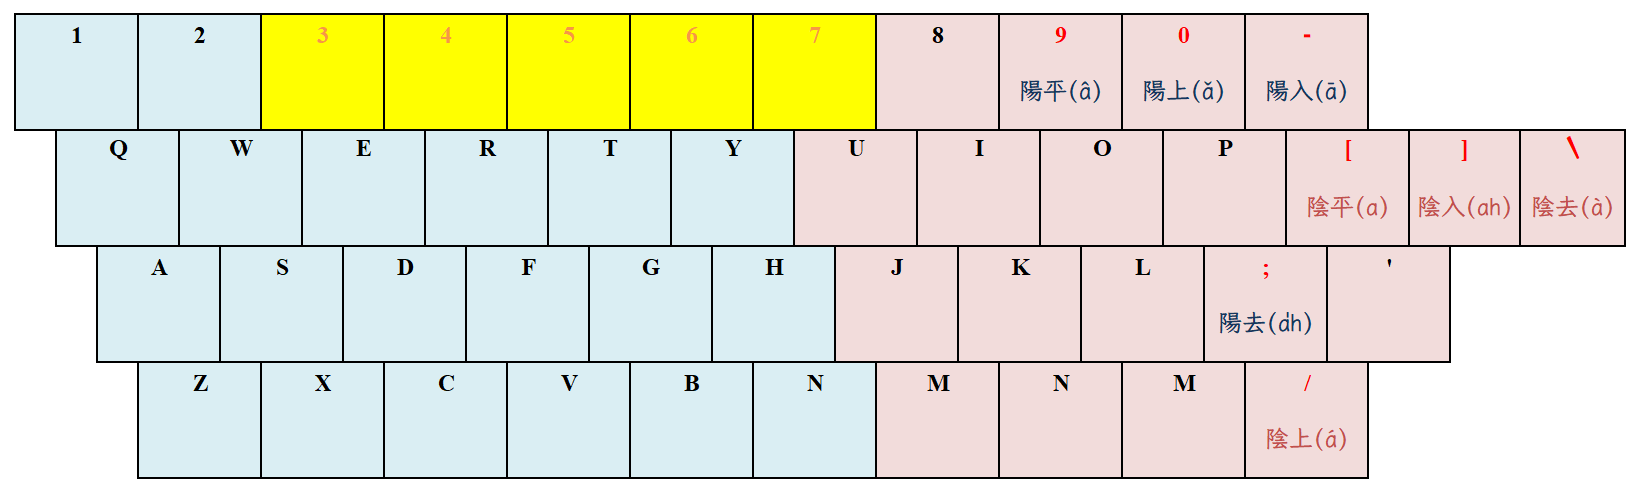
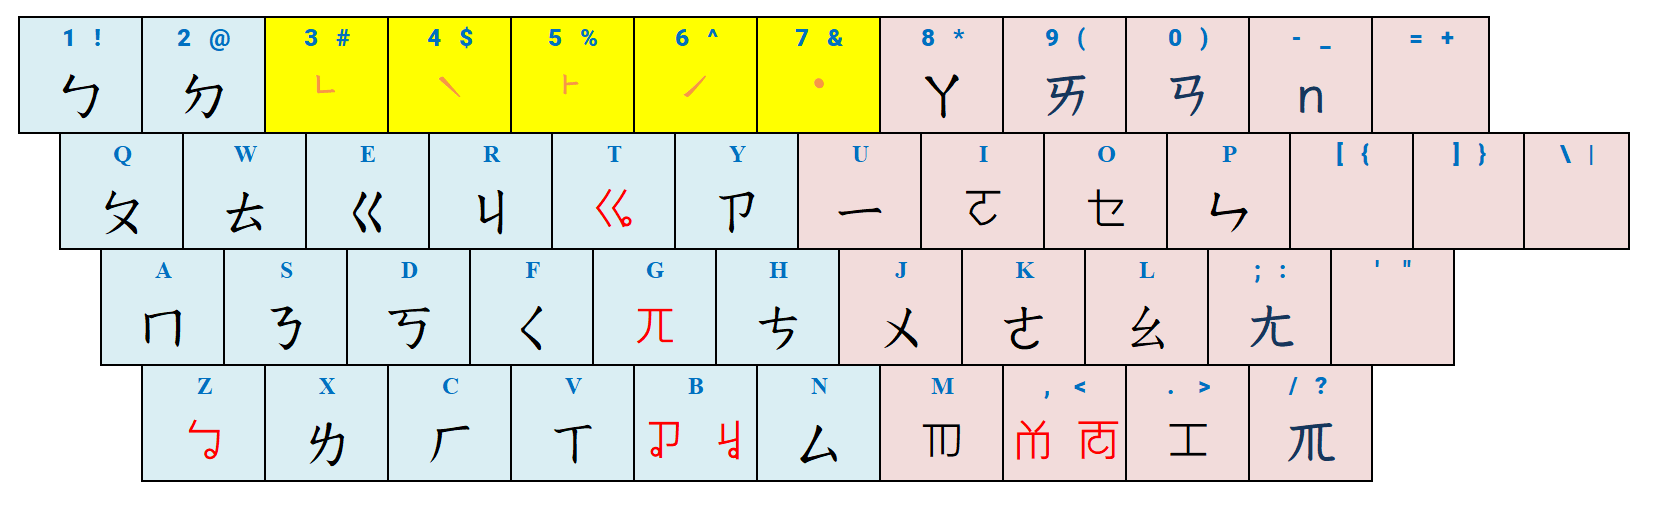
調整鍵盤

diff --git a/README.md b/README.md
@@ -14,12 +14,10 @@
 
 1. **安裝 [RIME](http://rime.im)**；
 
-
 2. **下載 [rime-taigi](https://github.com/AlanJui/rime-taigi/releases) 壓縮包檔案**；
 
-
 3. **設定 RIME 使用者設定檔 (`default.custom.yaml`)**；
-   
+
    各作業系統的 RIME 使用者設定檔，存放 `目錄路徑（資料夾）`：
 
    - 鼠鬚管：`~/Library/Rime/`(macOS)
@@ -27,7 +25,6 @@
    - 小狼毫：`"%APPDATA%\Rime"`(Windows)
 
    - 中州韻：`~/.config/ibus/rime/`(如：Ubuntu, ArchLinux，採用 Gnome 桌面＋ ibus 輸入作業平台)
-
 
 4. **重新部署 RIME 輸入法**：將作業系統使用中的輸入法，先切換成 RIME，再執行 RIME
    輸入法中的「重新部署」指令。
@@ -48,7 +45,9 @@
 |  7   | 陽入 (ā)  |    -     |  洞  | tōng     | tong-    |
 |  8   | 陽去 (a̍h) |    '     |  毒  | to̍k      | tok'     |
 
-![鍵盤](./docs/static/img/keyboard.png)
+![注音符號鍵盤](./docs/static/img/keyboard.png)
+
+![聲調鍵盤](./docs/static/img/keyboard2.png)
 
 ## 字形
 
